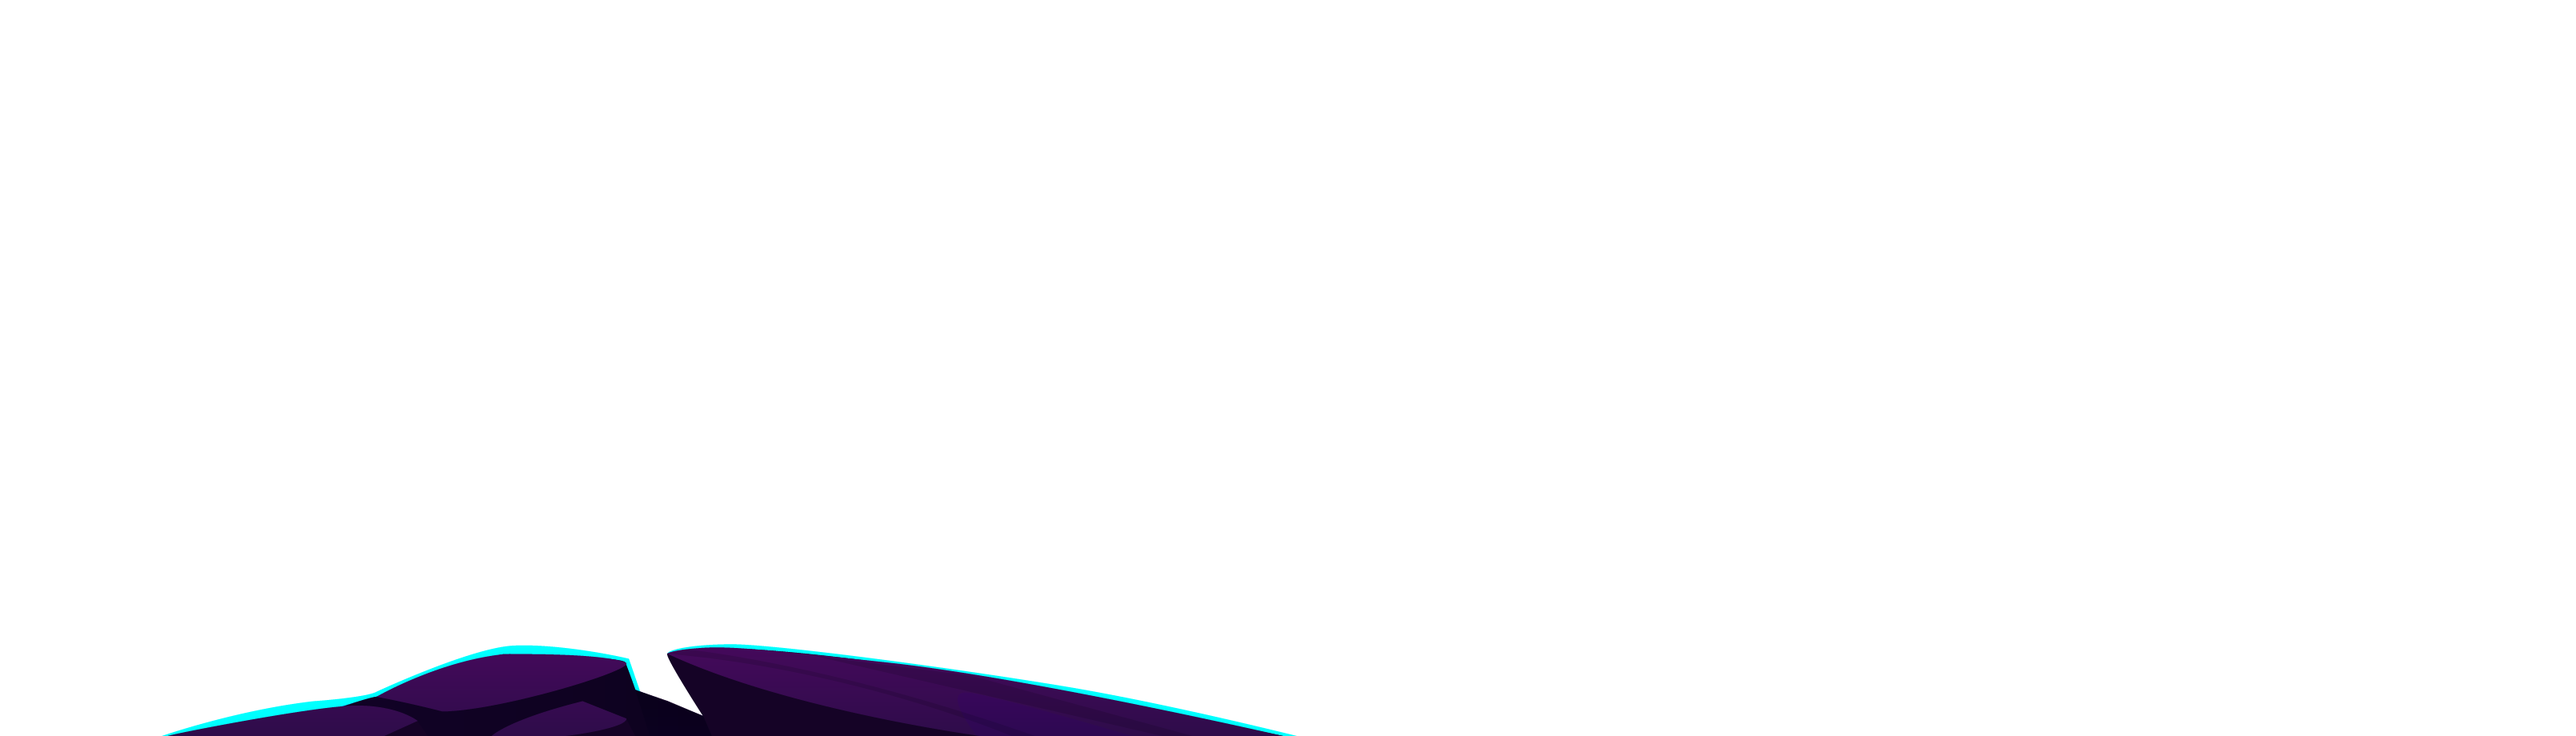
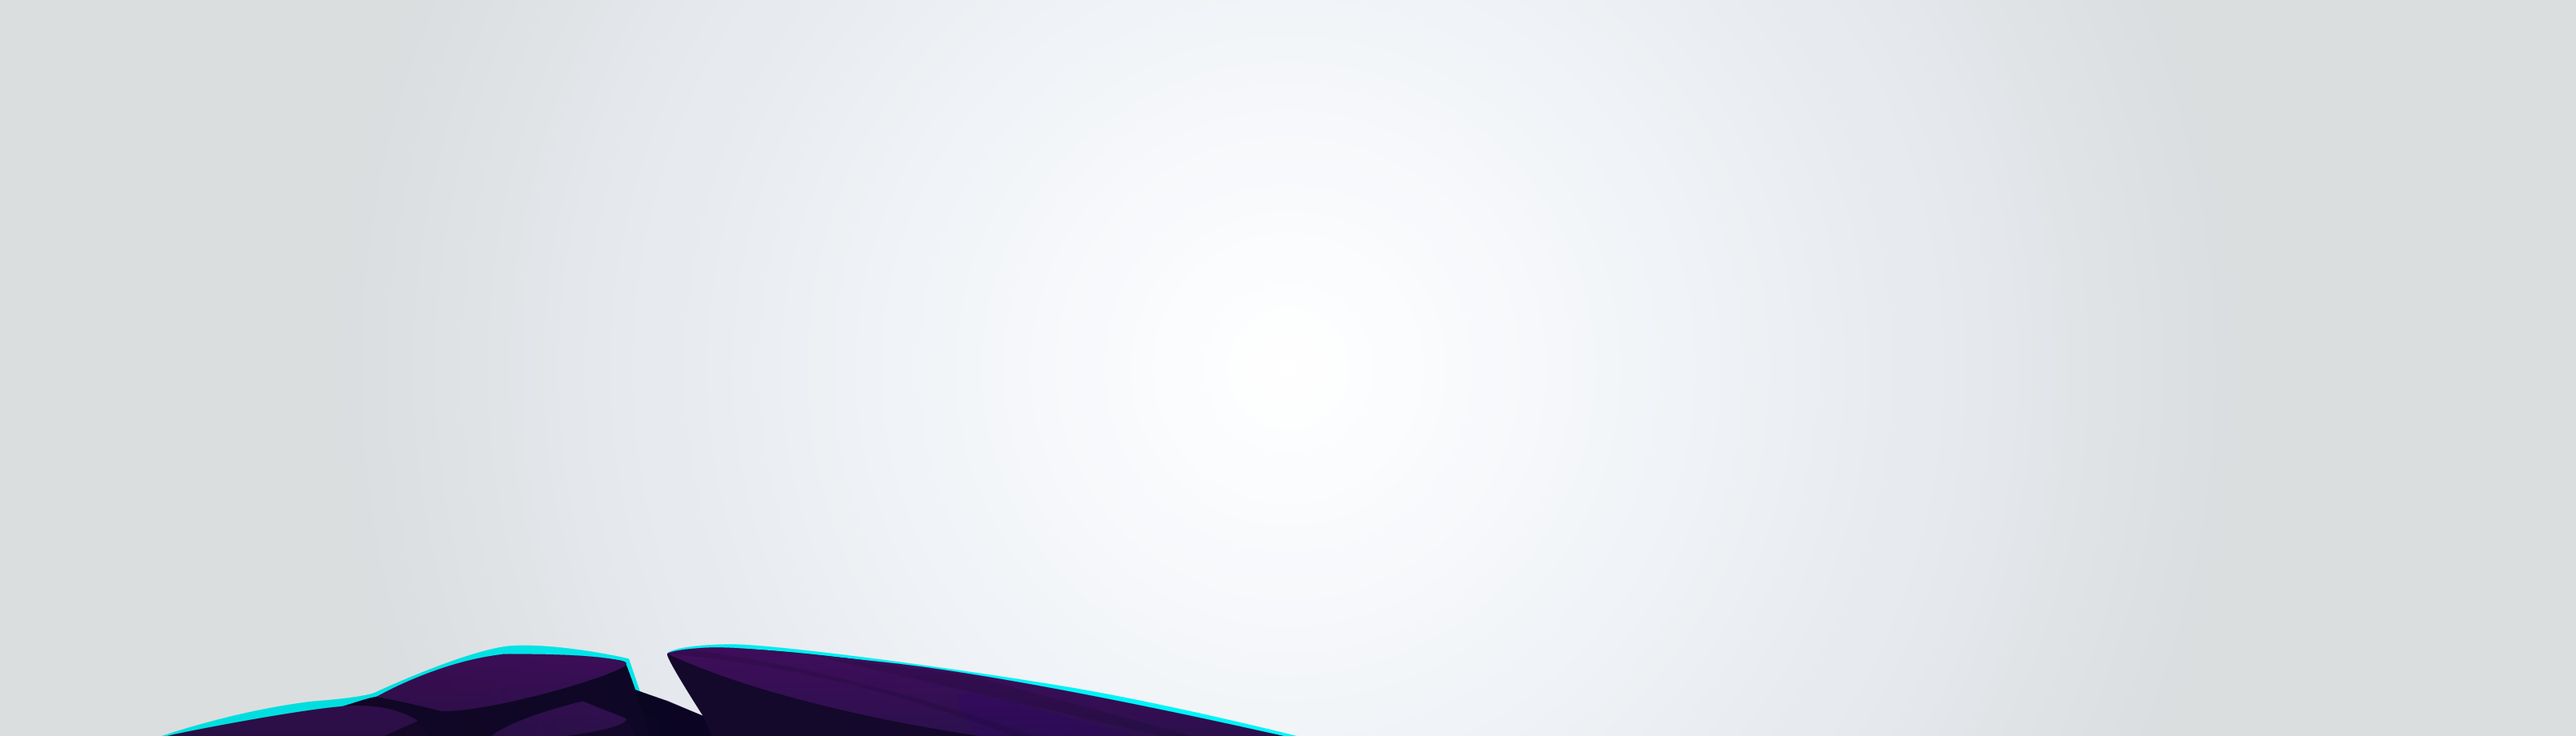
feat: 🎸 Parallax Hero section added

diff --git a/client/components/sections/Home/Hero.tsx b/client/components/sections/Home/Hero.tsx
@@ -14,18 +14,23 @@ const Hero = () => {
     target: ref,
     offset: ["start start", "end start"],
   });
-  const mountainsBottomLeftY = useTransform(scrollYProgress, [0, 1], [0, 200]);
-  const mountainsLower = useTransform(scrollYProgress, [0, 1], [0, 200]);
-  const planetsY = useTransform(scrollYProgress, [0, 1], [0, 400]);
-  const textY = useTransform(scrollYProgress, [0, 1], [0, 900]);
+  const mountainsBottomLeftY = useTransform(scrollYProgress, [0, 1], [0, 50]);
+  const mountainsLower = useTransform(scrollYProgress, [0, 1], [0, 250]);
+  const mountainsUpper = useTransform(scrollYProgress, [0, 1], [0, 400]);
+  const planetsY = useTransform(scrollYProgress, [0, 1], [0, 700]);
+  const textY = useTransform(scrollYProgress, [0, 1], [0, 500]);
+
   return (
-    <div className="w-full h-screen overflow-hidden relative grid place-items-center bg-indexPageHero" ref={ref}>
-      <motion.div className="absolute inset-0 z-30" style={{ y: textY }}>
+    <div
+      className="w-full h-screen overflow-hidden relative grid place-items-center bg-indexPageHero bg-cover bg-fixed"
+      ref={ref}
+    >
+      <motion.div className="absolute inset-0 z-50" style={{ y: textY }}>
         <LimitedWidthContainer additionalClasses=" min-h-[calc(100vh-56px)] flex flex-col gap-10 justify-center items-center">
           <HeadingPrimary>
             Welcome to ChronoQuest <br /> Your Epic Journey Through Time!
           </HeadingPrimary>
-          <ParagraphRegular additionalClasses="text-center">
+          <ParagraphRegular additionalClasses="text-center ">
             In ChronoQuest, you&apos;ll step into the shoes of a daring time traveler, equipped with a state-of-the-art
             time machine, ready to explore the depths of history and the mysteries of the future. Your quest will take
             you to exotic locales, ancient civilizations, and even alternate dimensions. It&apos;s time to make your
@@ -38,30 +43,30 @@ const Hero = () => {
         </LimitedWidthContainer>
       </motion.div>
       <motion.div
-        className="absolute inset-0"
+        className="absolute inset-0 bg-center bg-contain bg-no-repeat"
         style={{
           backgroundImage: `url('/backgrounds/indexPage/planets.png')`,
-          backgroundPosition: "center",
-          backgroundSize: "contain",
-          backgroundRepeat: "no-repeat",
           y: planetsY,
         }}
       />
       <motion.div
-        className="absolute inset-0 z-40"
+        className="absolute inset-0 z-30 bg-bottom bg-cover"
         style={{
           backgroundImage: `url('/backgrounds/indexPage/mountains_lower.png')`,
-          backgroundPosition: "bottom",
-          backgroundSize: "cover",
           y: mountainsLower,
         }}
       />
       <motion.div
-        className="absolute inset-0 z-50"
+        className="absolute inset-0 z-20 bg-bottom bg-cover"
+        style={{
+          backgroundImage: `url('/backgrounds/indexPage/mountains_upper.png')`,
+          y: mountainsUpper,
+        }}
+      />
+      <motion.div
+        className="absolute inset-0 z-40 bg-bottom bg-cover"
         style={{
           backgroundImage: `url('/backgrounds/indexPage/mountains_bottom_left.png')`,
-          backgroundPosition: "bottom",
-          backgroundSize: "cover",
           y: mountainsBottomLeftY,
         }}
       />

diff --git a/client/app/layout.tsx b/client/app/layout.tsx
@@ -22,13 +22,13 @@ const lato = Lato({
 
 export const metadata: Metadata = {
   title: "ChronoQuest",
-  description: "Generated by create next app",
+  description: "Travel Thru Time!",
 };
 
 export default function RootLayout({ children }: { children: React.ReactNode }) {
   return (
     <html lang="en" className={`h-full ${oswald.variable} ${lato.variable}`}>
-      <body className="min-h-full font-lato text-Neutral-White bg-Neutral-Dark">
+      <body className="min-h-full font-lato text-Neutral-White bg-Neutral-Dark relative">
         <Provider>
           <Header />
           <main>{children}</main>

diff --git a/client/components/global/Header.tsx b/client/components/global/Header.tsx
@@ -7,7 +7,7 @@ const Header = async () => {
   const session = await getServerSession(authOptions);
 
   return (
-    <header className="fixed w-full flex gap-7 h-14 items-center justify-center bg-black/25">
+    <header className="fixed z-[99999] w-full flex gap-7 h-14 items-center justify-center bg-black/25">
       {session ? <Link href="/game">Game</Link> : <Link href="/">Home</Link>}
       <Link href="/support">Support</Link>
       <Link href="/leaderboard">Leaderboard</Link>

diff --git a/client/tailwind.config.ts b/client/tailwind.config.ts
@@ -25,9 +25,6 @@ const config: Config = {
         grainy: "url('/backgrounds/grainy.png')",
 
         indexPageHero: ["url('/backgrounds/indexPage/background.png')"],
-        indexPageMountainsBottonLeft: ["url('/backgrounds/indexPage/mountains_bottom_left.svg')"],
-        indexPagePlanets: ["url('/backgrounds/indexPage/planets.png')"],
-        indexPageMountainsLower: ["url('/backgrounds/indexPage/mountains_lower.png')"],
       },
     },
   },

diff --git a/client/app/page.tsx b/client/app/page.tsx
@@ -23,7 +23,7 @@ export default function Home() {
   return (
     <>
       <Hero />
-      <SectionContainer>
+      <SectionContainer additionalClasses="border-solid border-0 border-t-4 border-[#02e4e7]">
         <LimitedWidthContainer>
           <HeadingSecondary>What Awaits You:</HeadingSecondary>
           <ul className="text-center">
